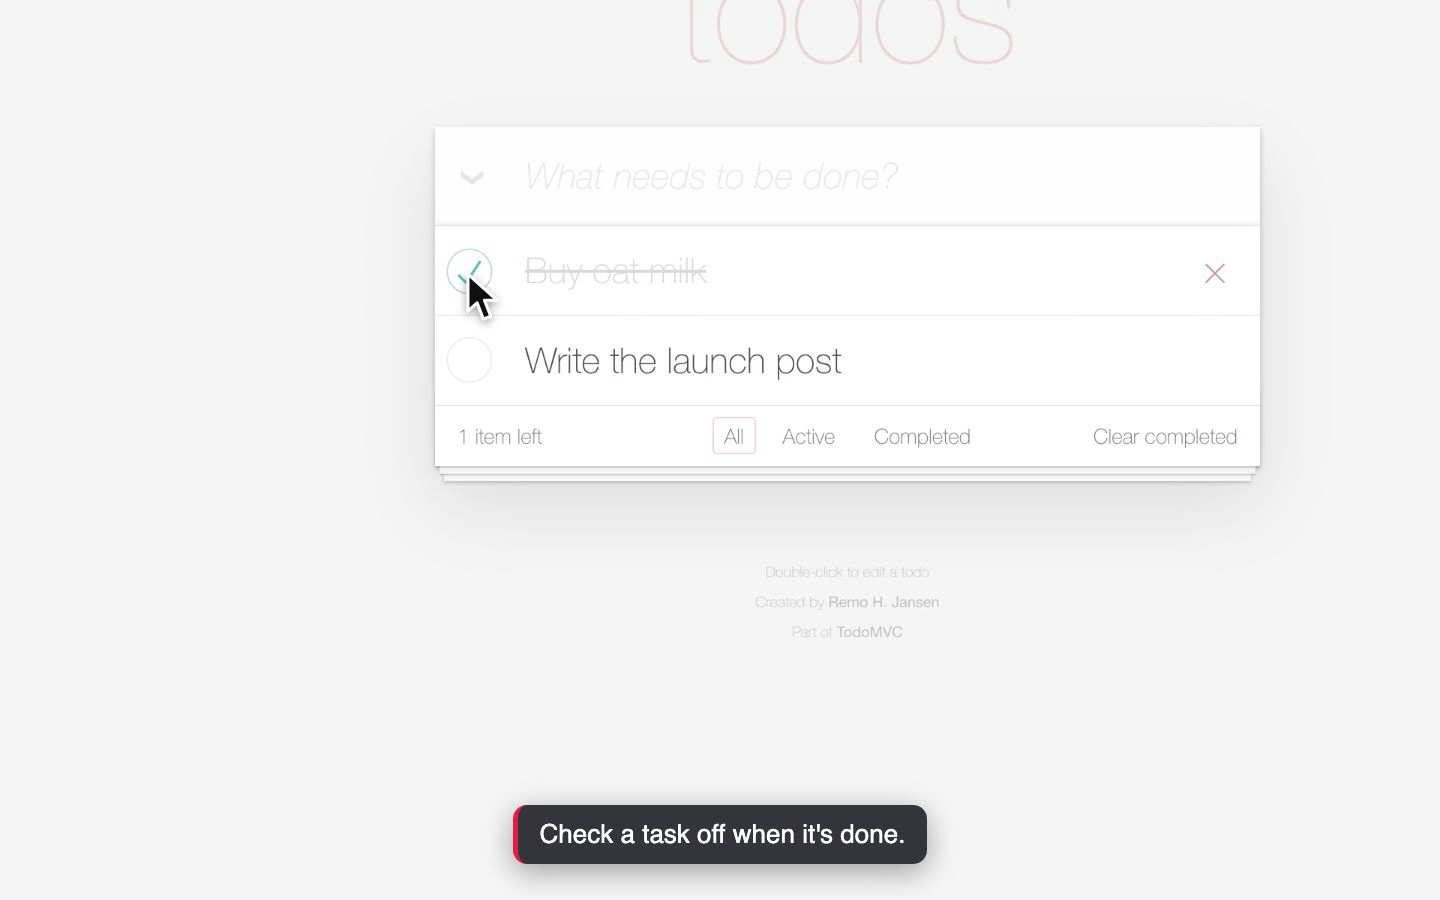
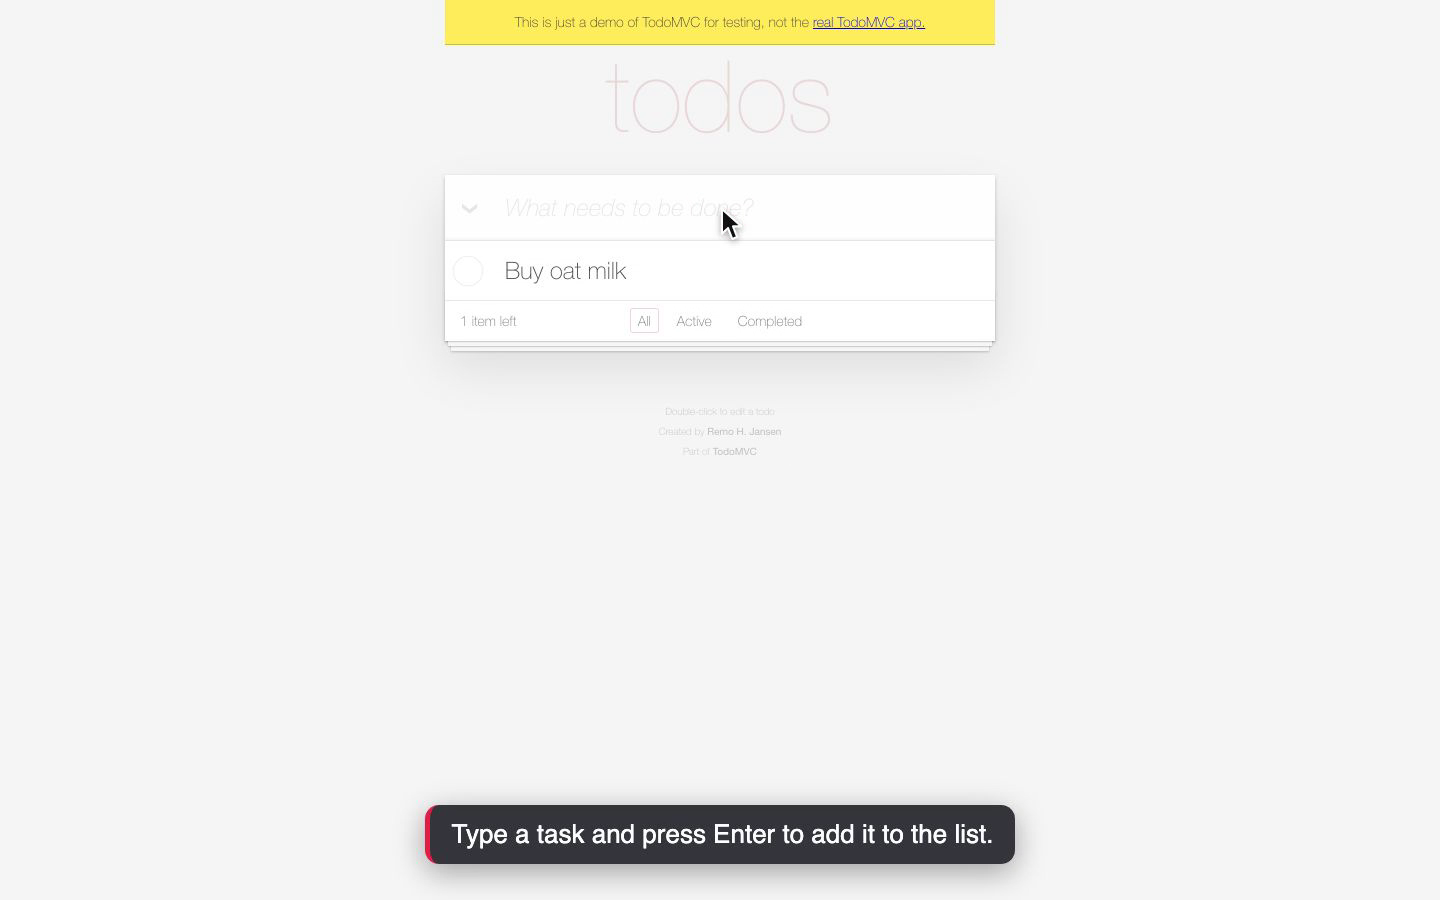
Batched Kokoro synthesis, Intel macOS espeak handling, refreshed docs assets

diff --git a/packages/core/src/tts.ts b/packages/core/src/tts.ts
@@ -7,6 +7,8 @@ export interface TTS {
   name: string;
   /** Returns a 16-bit PCM WAV buffer. */
   synthesize(text: string, voice?: string): Promise<Buffer>;
+  /** Optional batch path for providers with expensive startup (one process, many lines). */
+  synthesizeMany?(texts: string[], voice?: string): Promise<Buffer[]>;
 }
 
 export type TTSPreference = "auto" | "openai" | "elevenlabs" | "kokoro" | "say" | "silent";
@@ -90,42 +92,62 @@ export function kokoroPython(): string | undefined {
 }
 
 const KOKORO_SCRIPT = `
-import sys, json, warnings
+import sys, json, warnings, os, platform
 warnings.filterwarnings("ignore")
+# The espeak-ng wheel bundled with misaki carries a build-time data path that is wrong on some
+# platforms (notably Intel macOS). Prefer an explicit or Homebrew espeak-ng when present.
+lib = os.environ.get("ESPEAK_NG_LIBRARY")
+data = os.environ.get("ESPEAK_DATA_PATH")
+if platform.system() == "Darwin" and not lib:
+    for prefix in ("/opt/homebrew", "/usr/local"):
+        if os.path.exists(prefix + "/lib/libespeak-ng.dylib") and os.path.exists(prefix + "/share/espeak-ng-data/phontab"):
+            lib, data = prefix + "/lib/libespeak-ng.dylib", data or prefix + "/share/espeak-ng-data"
+            break
+if lib or data:
+    try:
+        import espeakng_loader
+        if lib: espeakng_loader.get_library_path = lambda: lib
+        if data: espeakng_loader.get_data_path = lambda: data
+    except Exception:
+        pass
 import numpy as np, soundfile as sf
 from kokoro import KPipeline
 req = json.load(sys.stdin)
 p = KPipeline(lang_code=req.get("lang", "a"), repo_id="hexgrad/Kokoro-82M")
-chunks = [a for _, _, a in p(req["text"], voice=req.get("voice") or "af_heart", speed=req.get("speed", 1.0))]
-audio = np.concatenate(chunks) if chunks else np.zeros(2400, dtype=np.float32)
-sf.write(req["out"], audio, 24000, subtype="PCM_16")
+for item in req["items"]:
+    chunks = [a for _, _, a in p(item["text"], voice=req.get("voice") or "af_heart", speed=req.get("speed", 1.0))]
+    audio = np.concatenate(chunks) if chunks else np.zeros(2400, dtype=np.float32)
+    sf.write(item["out"], audio, 24000, subtype="PCM_16")
 print("ok")
 `;
 
 /**
  * Kokoro-82M: open-weights neural TTS that runs locally (Apache-2.0).
  * Needs: pip install kokoro soundfile   (first run downloads ~330MB of weights)
+ * Intel macOS also needs: brew install espeak-ng  (torch 2.2 + a broken bundled espeak path)
  */
 function kokoro(): TTS {
+  async function run(texts: string[], voice?: string): Promise<Buffer[]> {
+    const py = kokoroPython();
+    if (!py) throw new Error("kokoro not installed: pip install kokoro soundfile (or set DEMO_ENGINE_KOKORO_PYTHON)");
+    const dir = await fs.mkdtemp(path.join(os.tmpdir(), "demo-engine-"));
+    const items = texts.map((text, i) => ({ text, out: path.join(dir, `${i}.wav`) }));
+    await new Promise<void>((resolve, reject) => {
+      const p = spawn(py, ["-c", KOKORO_SCRIPT], { stdio: ["pipe", "pipe", "pipe"] });
+      let err = "";
+      p.stderr.on("data", (d) => (err += d.toString()));
+      p.on("exit", (c) => (c === 0 ? resolve() : reject(new Error(`kokoro exited ${c}: ${err.split("\n").filter((l) => l.trim()).slice(-3).join(" | ")}`))));
+      p.on("error", reject);
+      p.stdin.end(JSON.stringify({ items, voice: voice ?? process.env.KOKORO_VOICE ?? "af_heart", speed: Number(process.env.KOKORO_SPEED ?? 1.0) }));
+    });
+    const bufs = await Promise.all(items.map((it) => fs.readFile(it.out)));
+    await fs.rm(dir, { recursive: true, force: true });
+    return bufs;
+  }
   return {
     name: "kokoro",
-    async synthesize(text, voice) {
-      const py = kokoroPython();
-      if (!py) throw new Error("kokoro not installed: pip install kokoro soundfile (or set DEMO_ENGINE_KOKORO_PYTHON)");
-      const dir = await fs.mkdtemp(path.join(os.tmpdir(), "demo-engine-"));
-      const out = path.join(dir, "out.wav");
-      await new Promise<void>((resolve, reject) => {
-        const p = spawn(py, ["-c", KOKORO_SCRIPT], { stdio: ["pipe", "pipe", "pipe"] });
-        let err = "";
-        p.stderr.on("data", (d) => (err += d.toString()));
-        p.on("exit", (c) => (c === 0 ? resolve() : reject(new Error(`kokoro exited ${c}: ${err.split("\n").filter((l) => l.trim()).slice(-3).join(" | ")}`))));
-        p.on("error", reject);
-        p.stdin.end(JSON.stringify({ text, voice: voice ?? process.env.KOKORO_VOICE ?? "af_heart", out, speed: Number(process.env.KOKORO_SPEED ?? 1.0) }));
-      });
-      const buf = await fs.readFile(out);
-      await fs.rm(dir, { recursive: true, force: true });
-      return buf;
-    }
+    synthesize: async (text, voice) => (await run([text], voice))[0],
+    synthesizeMany: run
   };
 }
 

diff --git a/packages/core/src/narrate.ts b/packages/core/src/narrate.ts
@@ -86,37 +86,45 @@ export async function narrateRun(flow: Flow, run: RunResult, opts: NarrateOption
     }
   }
 
-  // Audio (one TTS call per changed line, cached by text+voice+provider).
+  // Audio: cached per text+voice+provider. Uncached lines go to the provider in one batch when it supports it.
   const audioDir = opts.store.audioCacheDir();
   await ensureDir(audioDir);
-  const steps: NarrationStep[] = [];
   let tts = opts.tts;
+  const keyFor = (text: string) => sha256(JSON.stringify({ tts: tts.name, voice: opts.voice ?? "", text })).slice(0, 24);
+  const pending: { index: number; text: string }[] = [];
+  for (let i = 0; i < run.steps.length; i++) {
+    const key = keyFor(lines[i]);
+    if (!((await exists(path.join(audioDir, `${key}.wav`))) && (await exists(path.join(audioDir, `${key}.json`))))) pending.push({ index: i, text: lines[i] });
+  }
+  const synthesizeAll = async (provider: TTS): Promise<Buffer[]> => {
+    if (provider.synthesizeMany && pending.length > 1) return provider.synthesizeMany(pending.map((p) => p.text), opts.voice);
+    const out: Buffer[] = [];
+    for (const p of pending) out.push(await provider.synthesize(p.text, opts.voice));
+    return out;
+  };
+  if (pending.length) {
+    log.info(`tts: ${pending.length} line${pending.length === 1 ? "" : "s"} with ${tts.name}`);
+    let bufs: Buffer[];
+    try {
+      bufs = await synthesizeAll(tts);
+    } catch (e) {
+      if (!opts.fallbackTTS || tts === opts.fallbackTTS) throw e;
+      log.warn(`tts: ${tts.name} failed (${(e as Error).message.split("\n")[0]}); falling back to ${opts.fallbackTTS.name}`);
+      tts = opts.fallbackTTS;
+      bufs = await synthesizeAll(tts);
+    }
+    for (let j = 0; j < pending.length; j++) {
+      const key = keyFor(pending[j].text);
+      await fs.writeFile(path.join(audioDir, `${key}.wav`), bufs[j]);
+      await writeJson(path.join(audioDir, `${key}.json`), { durationMs: wavDurationMs(bufs[j]), text: pending[j].text, voice: opts.voice ?? null, tts: tts.name });
+    }
+  }
+  const steps: NarrationStep[] = [];
   for (let i = 0; i < run.steps.length; i++) {
     const text = lines[i];
-    const key = sha256(JSON.stringify({ tts: tts.name, voice: opts.voice ?? "", text })).slice(0, 24);
-    const wav = path.join(audioDir, `${key}.wav`);
-    const meta = path.join(audioDir, `${key}.json`);
-    let durationMs: number;
-    let cached = true;
-    if ((await exists(wav)) && (await exists(meta))) {
-      durationMs = (await readJson<{ durationMs: number }>(meta)).durationMs;
-    } else {
-      cached = false;
-      log.info(`tts: step ${i + 1} (${tts.name})`);
-      let buf: Buffer;
-      try {
-        buf = await tts.synthesize(text, opts.voice);
-      } catch (e) {
-        if (!opts.fallbackTTS || tts === opts.fallbackTTS) throw e;
-        log.warn(`tts: ${tts.name} failed (${(e as Error).message.split("\n")[0]}); falling back to ${opts.fallbackTTS.name}`);
-        tts = opts.fallbackTTS;
-        buf = await tts.synthesize(text, opts.voice);
-      }
-      durationMs = wavDurationMs(buf);
-      await fs.writeFile(wav, buf);
-      await writeJson(meta, { durationMs, text, voice: opts.voice ?? null, tts: opts.tts.name });
-    }
-    steps.push({ index: i, say: says[i], text, audio: path.resolve(wav), durationMs, cached });
+    const key = keyFor(text);
+    const meta = await readJson<{ durationMs: number }>(path.join(audioDir, `${key}.json`));
+    steps.push({ index: i, say: says[i], text, audio: path.resolve(path.join(audioDir, `${key}.wav`)), durationMs: meta.durationMs, cached: !pending.some((p) => p.index === i) });
   }
   const narration: Narration = { version: 1, llm: llmName, tts: tts.name, voice: opts.voice, steps };
   await writeJson(path.join(run.runDir, "narration.json"), narration);

diff --git a/README.md b/README.md
@@ -157,7 +157,7 @@ Targets are flow files, directories of `*.flow.yaml`, or run directories recorde
 | | options | pick with |
 |---|---|---|
 | LLM (script polish, heal) | Anthropic, OpenAI, none | `llm:` in config or `ANTHROPIC_API_KEY` / `OPENAI_API_KEY` |
-| TTS | ElevenLabs, OpenAI, Kokoro (local neural), macOS `say`, silent | `tts:` in config or the matching key. Kokoro: `pip install kokoro soundfile`, optional `KOKORO_VOICE` (default `af_heart`) |
+| TTS | ElevenLabs, OpenAI, Kokoro (local neural), macOS `say`, silent | `tts:` in config or the matching key. Kokoro: `pip install kokoro soundfile` (Intel Mac: also `brew install espeak-ng` and `pip install "torch==2.2.2" "numpy<2" "transformers<4.50"`), `DEMO_ENGINE_KOKORO_PYTHON` to pick an interpreter, `KOKORO_VOICE` (default `af_heart`) |
 | Render | Remotion (bundled Chrome Headless Shell) | nothing to configure |
 
 Remotion is free for individuals and teams of up to three; larger companies need a [Remotion company license](https://www.remotion.dev/docs/license).

diff --git a/packages/cli/README.md b/packages/cli/README.md
@@ -157,7 +157,7 @@ Targets are flow files, directories of `*.flow.yaml`, or run directories recorde
 | | options | pick with |
 |---|---|---|
 | LLM (script polish, heal) | Anthropic, OpenAI, none | `llm:` in config or `ANTHROPIC_API_KEY` / `OPENAI_API_KEY` |
-| TTS | ElevenLabs, OpenAI, Kokoro (local neural), macOS `say`, silent | `tts:` in config or the matching key. Kokoro: `pip install kokoro soundfile`, optional `KOKORO_VOICE` (default `af_heart`) |
+| TTS | ElevenLabs, OpenAI, Kokoro (local neural), macOS `say`, silent | `tts:` in config or the matching key. Kokoro: `pip install kokoro soundfile` (Intel Mac: also `brew install espeak-ng` and `pip install "torch==2.2.2" "numpy<2" "transformers<4.50"`), `DEMO_ENGINE_KOKORO_PYTHON` to pick an interpreter, `KOKORO_VOICE` (default `af_heart`) |
 | Render | Remotion (bundled Chrome Headless Shell) | nothing to configure |
 
 Remotion is free for individuals and teams of up to three; larger companies need a [Remotion company license](https://www.remotion.dev/docs/license).
